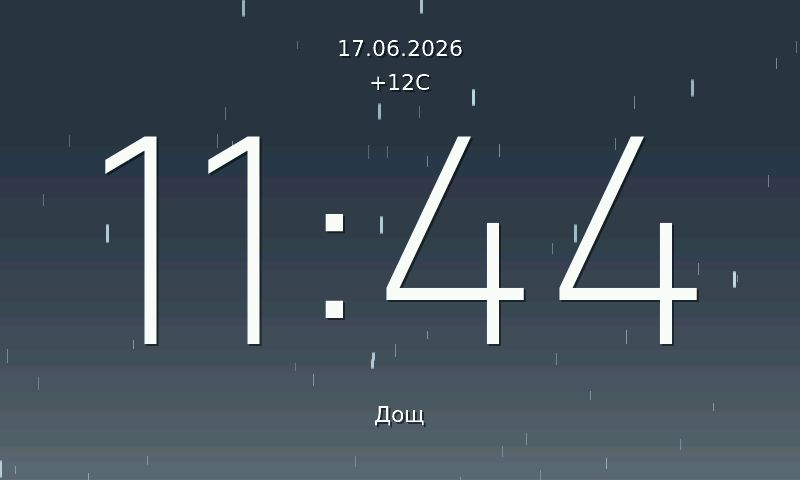
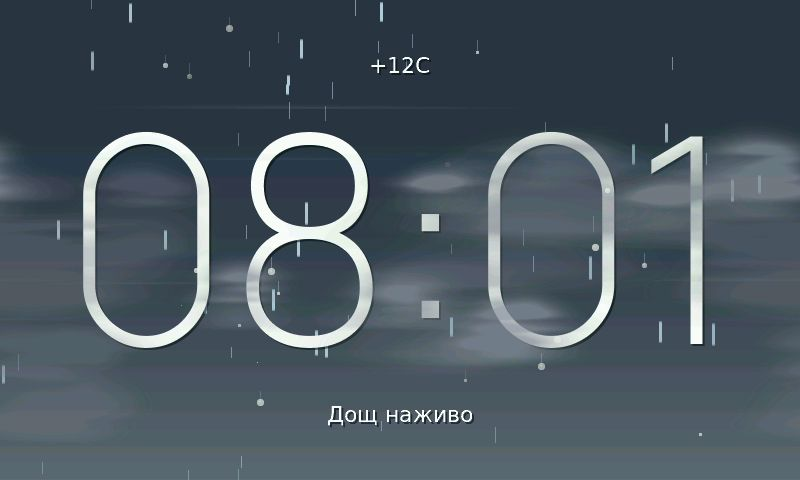
Refresh README screenshots from current firmware on device.
Capture partly cloudy, clear day, and rain scenes at native 800×480 after flashing the latest build.

diff --git a/README.md b/README.md
@@ -22,13 +22,14 @@ It does not include the older "eyes" scene. This repository is the weather firmw
 
 ## Screenshots
 
-Captured on the real `JC4880P443C_I_W` board at native 800×480 (CDC `screenshot` command).
+Fresh captures from the current firmware on real hardware (800×480, CDC `screenshot`).
 
-| Clear day | Rain (outdoor + glass droplets) | Partly cloudy |
+| Partly cloudy | Clear day | Rain |
 | --- | --- | --- |
-| ![Clear day scene](docs/images/clear-day.jpg) | ![Rain scene](docs/images/rain-day.jpg) | ![Partly cloudy scene](docs/images/partly-cloudy-day.jpg) |
+| ![Partly cloudy day](docs/images/partly-cloudy-day.jpg) | ![Clear day](docs/images/clear-day.jpg) | ![Rain day](docs/images/rain-day.jpg) |
+| Layered clouds, sun, 288px clock | 2× Fibonacci sun + animated halo | Outdoor rain + glass droplets |
 
-The scene is fully procedural: sky gradient, sun/moon arc, layered 3D clouds, precipitation, and a glass overlay with animated droplets. Text (clock, date, temp, description) is rendered from baked A8 masks and composited under the cloud layers.
+The scene is fully procedural: sky gradient, sun/moon arc, 3D cloud strips, precipitation, and a top glass overlay. Text is baked from A8 masks and drawn under the cloud layers.
 
 ## Hardware
 
